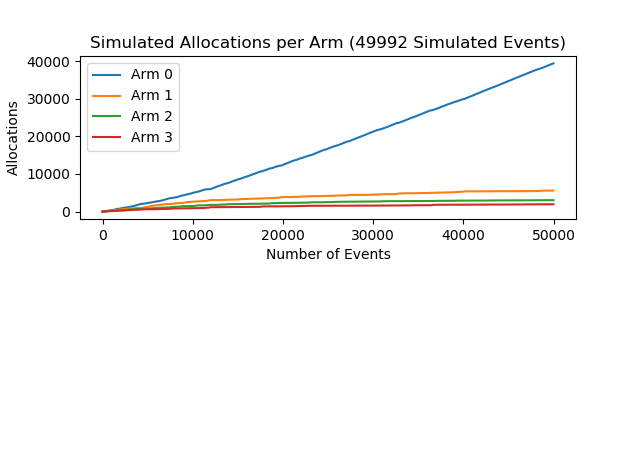
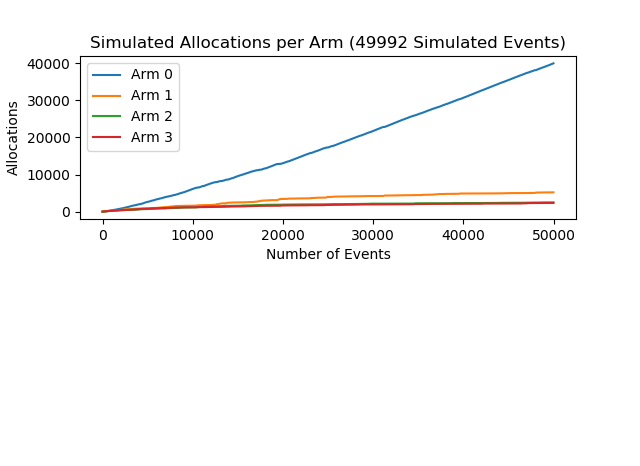
best action = 0
biases are descending as arm index goes up, meaning lower index arms are chosen with more liklihood

diff --git a/ucb1_simulation.py b/ucb1_simulation.py
@@ -55,14 +55,15 @@ def ucb1(num_bandits, reward):
         yield action, theReward, ucbs
         t = t + 1
 
-
+# Assign biases tapering off (arm 0 is most biased toward reward)
 biases = [1.0 / k for k in range(5,5+num_bandits)]
 means = [0.5 + b for b in biases]
 deltas = [means[0] - x for x in means[1:]]
 deltaSum = sum(deltas)
 invDeltaSum = sum(1/x for x in deltas)
 
-#bestAction = 0
+# Must choose theoretical best action
+bestAction = 0
 
 rewards = lambda choice, t: random.random() + biases[choice]
 
@@ -76,9 +77,10 @@ t_list=[]
 t = num_bandits
 
 for (choice, reward, ucbs) in ucb1(num_bandits, rewards):
-    randomAction = random.randint(0, num_bandits)
+    #randomAction = random.randint(0, num_bandits)
+
     cumulativeReward += reward
-    bestActionCumulativeReward += reward if choice == randomAction else rewards(randomAction, t)
+    bestActionCumulativeReward += reward if choice == bestAction else rewards(bestAction, t)
 
     regret = bestActionCumulativeReward - cumulativeReward
     regret_list.append(regret)
